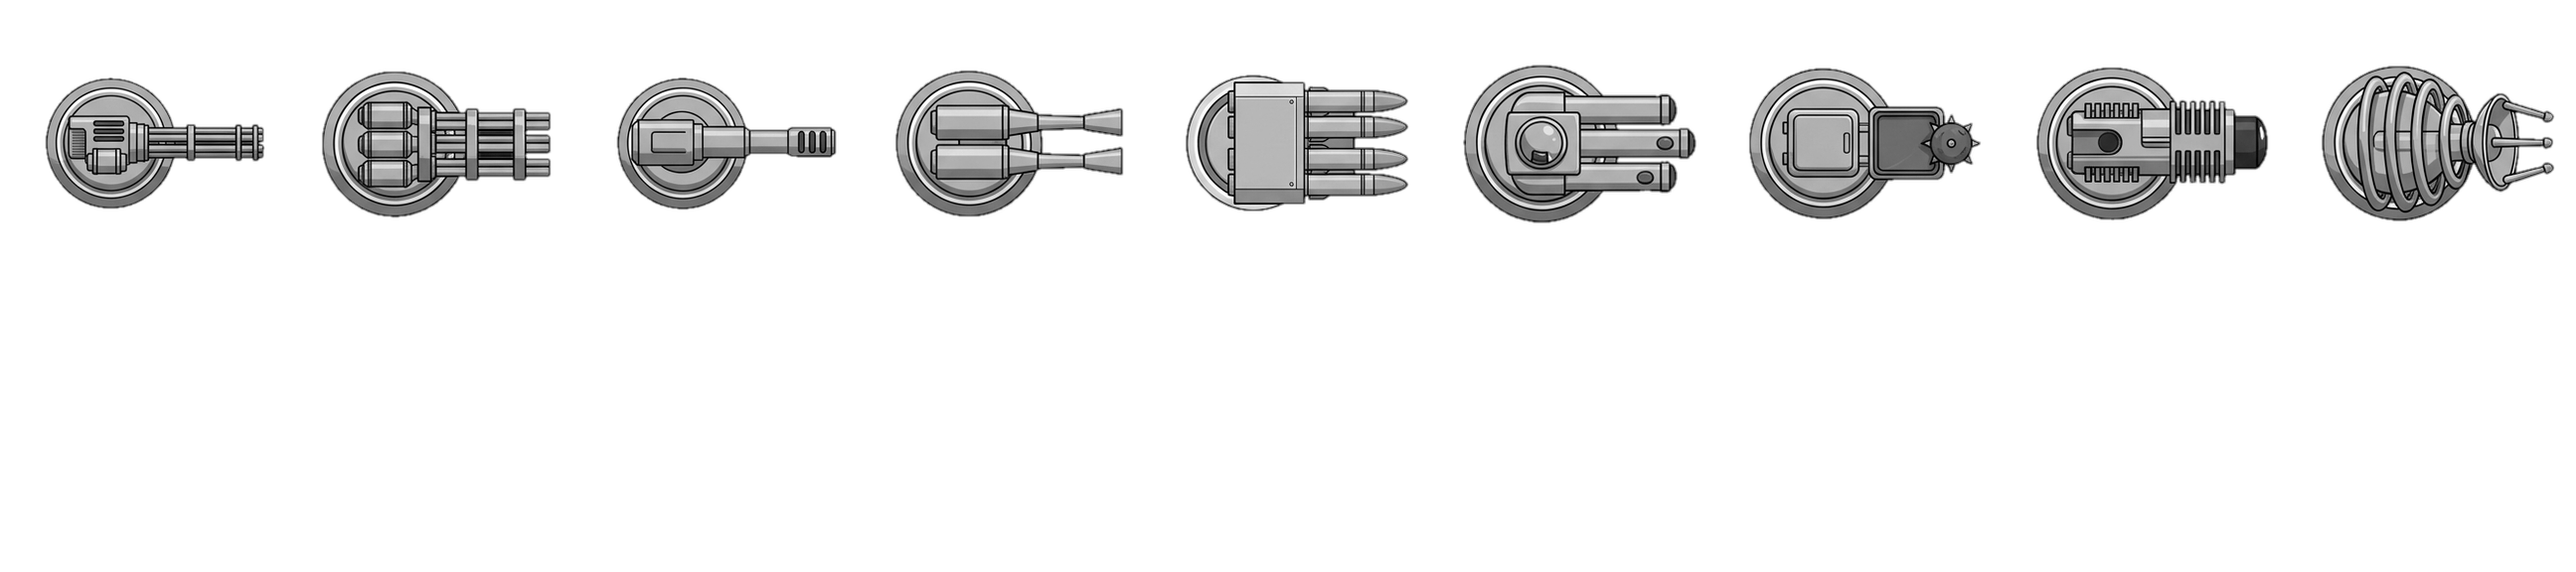
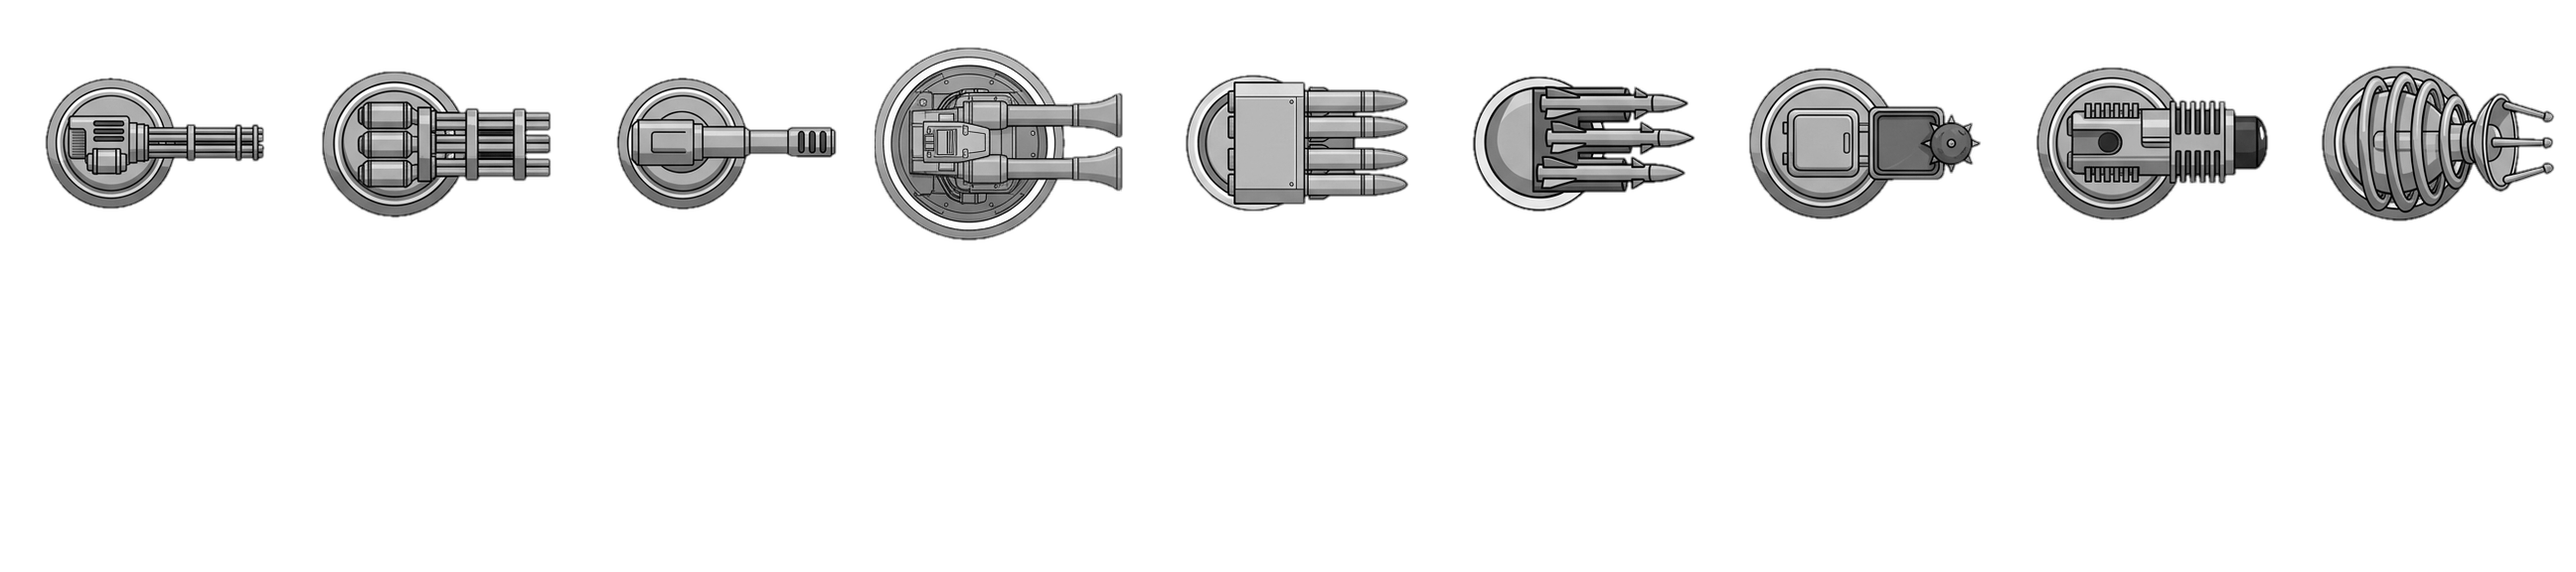
Art A.3b: the re-rolled flak and seeker replace run 2's stand-ins
Run 3's flak (a little wider than its tile, which suits it) and run 1's seeker (run 3's
missiles are drawn angled about 10 degrees off their line of fire). The rest are spares.

Changed region(s): [[0.3125, 0.0625, 0.4375, 0.4375], [0.5625, 0.0938, 0.6562, 0.4062]]

diff --git a/Docs/PLAN.md b/Docs/PLAN.md
@@ -1667,7 +1667,7 @@ contract). The owner generates in Gemini, and then we review, slice and stage.
 | A.0 | ✅ 2026-10-26. **Art direction** `[D3]`: the style sentence, four tiers (world, chrome and icons, portraits, backdrops), the palette (chrome sampled from Menu Theme) and the portrait key hues, all in `Docs/ART_PROMPT.md`'s header with the canvas contract and house rules | – | before A.1 |
 | A.1 | Tile materials: Hull, Armor, Shield, Hardpoint (greyscale and seamless) + Core design. **First sheet, so it also carries the slicer port**: AOD's `slice_ui_sheets.py` → `tools/slice_sheets.py` with a per-sheet config (grid, key colour, glow list), proven on this sheet. ⚠ Materials are sampled in ship space (one repeat per U), so a Large hex core shows the canopy several times; the **core design needs tile-local UVs**, unlike the seamless materials. ✅ 2026-10-26: `tools/slice_sheets.py` (flood-fill key, cut inside the gutters, seams evened) packs `art_src/sheets.json`'s cells into `assets/tiles/tile_atlas.png` (a column per type, 3 variants, padded for mipmaps) and `tile_damage.png` (an overlay per wear step, in place of the procedural cracks). The core is textured in its own box, so its cockpit appears once. Gemini ignored a 15-item list but followed one kind per row. | 1 sheet (5 cells + 2 variants each) | 2.4 |
 | A.2 | ✅ 2026-10-27. **Thrusters**: one Gemini sheet, one type per row (`ART_PROMPT.md` `parts_thrusters`). The slicer's `part` kind keys chroma green, takes the grey from R and B (the spill is all in G) and stretches the art over the cell; its cut-out goes in the atlas's B (1 = cut out, so the placeholder stays solid). The thruster column holds pulse, jet and ion in its three rows. `ShipMesh._add_part` draws a nozzle as its whole footprint box in the nozzle's own frame, so one picture serves every size and side, and the shader cuts it to the art's silhouette with no bevel. The trim band shows the level (L1–3 bronze, silver, gold; visuals.json). No S/M/L cells: a nozzle is the same shape at every size. ⚠ A canvas_item fragment can't `return`, and the headless tests never compile the shader, so a shader change needs a preview. | 1 sheet (12 cells) | 3.6 |
-| A.3 | ✅ 2026-10-27. **Weapons**: one painted **gun head** per type (housing and barrels, pointing right) from three runs of `ART_PROMPT.md` `parts_guns`, turning as a whole about the housing's centre on every mount. The slicer's `gun` kind finds the housing from the art's left edge and fits each gun so its barrel tip lands at a fixed x; `GunView._draw_head` scales it so the tip meets the data's muzzle, and tints the trim band (HE red, AP amber). The code-drawn guns stay as the fallback when the atlas is missing. Spare designs are catalogued for v2's factions. ⚠ Fit by the tip, not the housing: Gemini's barrels run short, and a flash floating off the end looks broken. Open: re-roll flak and seeker in run 3's style. | 1 sheet, run ×3 | 4.5 |
+| A.3 | ✅ 2026-10-27. **Weapons**: one painted **gun head** per type (housing and barrels, pointing right) from three runs of `ART_PROMPT.md` `parts_guns`, turning as a whole about the housing's centre on every mount. The slicer's `gun` kind finds the housing from the art's left edge and fits each gun so its barrel tip lands at a fixed x; `GunView._draw_head` scales it so the tip meets the data's muzzle, and tints the trim band (HE red, AP amber). The code-drawn guns stay as the fallback when the atlas is missing. Spare designs are catalogued for v2's factions. ⚠ Fit by the tip, not the housing: Gemini's barrels run short, and a flash floating off the end looks broken. Flak and seeker were re-rolled as A.3b (`parts_guns_flak_seeker`). | 1 sheet, run ×3 | 4.5 |
 | A.4 | ✅ 2026-10-27. **Icons**: one sheet (`ART_PROMPT.md` `icons_main`, run 2 of 3): resources and GC, the HUD symbols (fire, switch, pause, boost) and the ×2–×5 power-up badges, one 128 px PNG each in `assets/icons/` (the slicer's `sprite` kind and `files` layout), as `vis.icon.<id>`. In use: pickups in flight, FIRE, SWITCH and Pause; boost and the badges wait for 8.3. **Tile-type, weapon and thruster icons reuse the part art** instead of their own sheet. ⚠ The flood-fill key keeps enclosed black on purpose (a badge's centre); a crosshair's or coil's hole needs `holes`. | 1 sheet, run ×3 | 4.7, 8.3 |
 | A.5 | UI chrome after the Menu Theme reference: panel, button (normal/pressed/disabled × orange/green/red), header bar, frame, progress bars | one canvas per chrome piece + 1 widget sheet | 6.1 |
 | A.6 | Map icons: asteroid, beacon, station, shop, bar, hangar, 4 job types, story, skull, tick, you-are-here | 1 sheet | 9.3 |

diff --git a/Docs/ART_PROMPT.md b/Docs/ART_PROMPT.md
@@ -150,7 +150,7 @@ band for the colour the player picked and keeps the shading. Each hue is far fro
 | A.1 | `tiles_materials` | `art_src/tiles/` | 15 | ✅ in the game 2026-10-26: hull, armour, hardpoint |
 | A.1b | `tiles_cores_shields` | `art_src/tiles/` | 12 | ✅ in the game 2026-10-26: core, shields, damage |
 | A.2 | `parts_thrusters` | `art_src/parts/` | 12 | ✅ in the game 2026-10-27: a nozzle per type |
-| A.3 | `parts_guns` | `art_src/parts/` | 12, run ×3 | ✅ in the game 2026-10-27: 9 gun heads; flak and seeker re-roll open |
+| A.3 | `parts_guns` | `art_src/parts/` | 12, run ×3 | ✅ in the game 2026-10-27: 9 gun heads (A.3b re-rolled flak and seeker) |
 | A.4 | `icons_main` | `art_src/icons/` | 15, run ×3 | ✅ in the game 2026-10-27: pickups, FIRE, SWITCH, Pause |
 | A.5 | `chrome_*` | `art_src/ui/` | one canvas per piece | to write |
 | A.6 | `icons_map` | `art_src/icons/` | 1 sheet | to write |
@@ -658,6 +658,18 @@ gun, every gun points right, and rows 3 and 4 are empty.
 
 **What happens to it.** The best flak and seeker are cut as `gun` cells in place of run 2's,
 with no code change.
+
+### Review, 2026-10-27: what came back
+
+- **Run 1** did exactly what was asked (small housings, long guns), but it's plainer than the
+  first sheets. **Its seeker (#6) is used.**
+- **Run 3** is the owner's favourite and the most detailed, but its housings are still big
+  (tip 1.4–1.6 r). **Its flak (#1) is used:** its disc comes out 1.09 U, a little wider than its
+  tile, which suits a heavy gun. Its seekers are drawn angled up-right, about 10° off their line
+  of fire, so they're spares.
+- **Run 2** is pixel art on square bases: off-style, unused.
+- Asking for proportions relative to the housing worked in one run of three. Running ×3 is
+  what made it pay.
 
 ---
 
